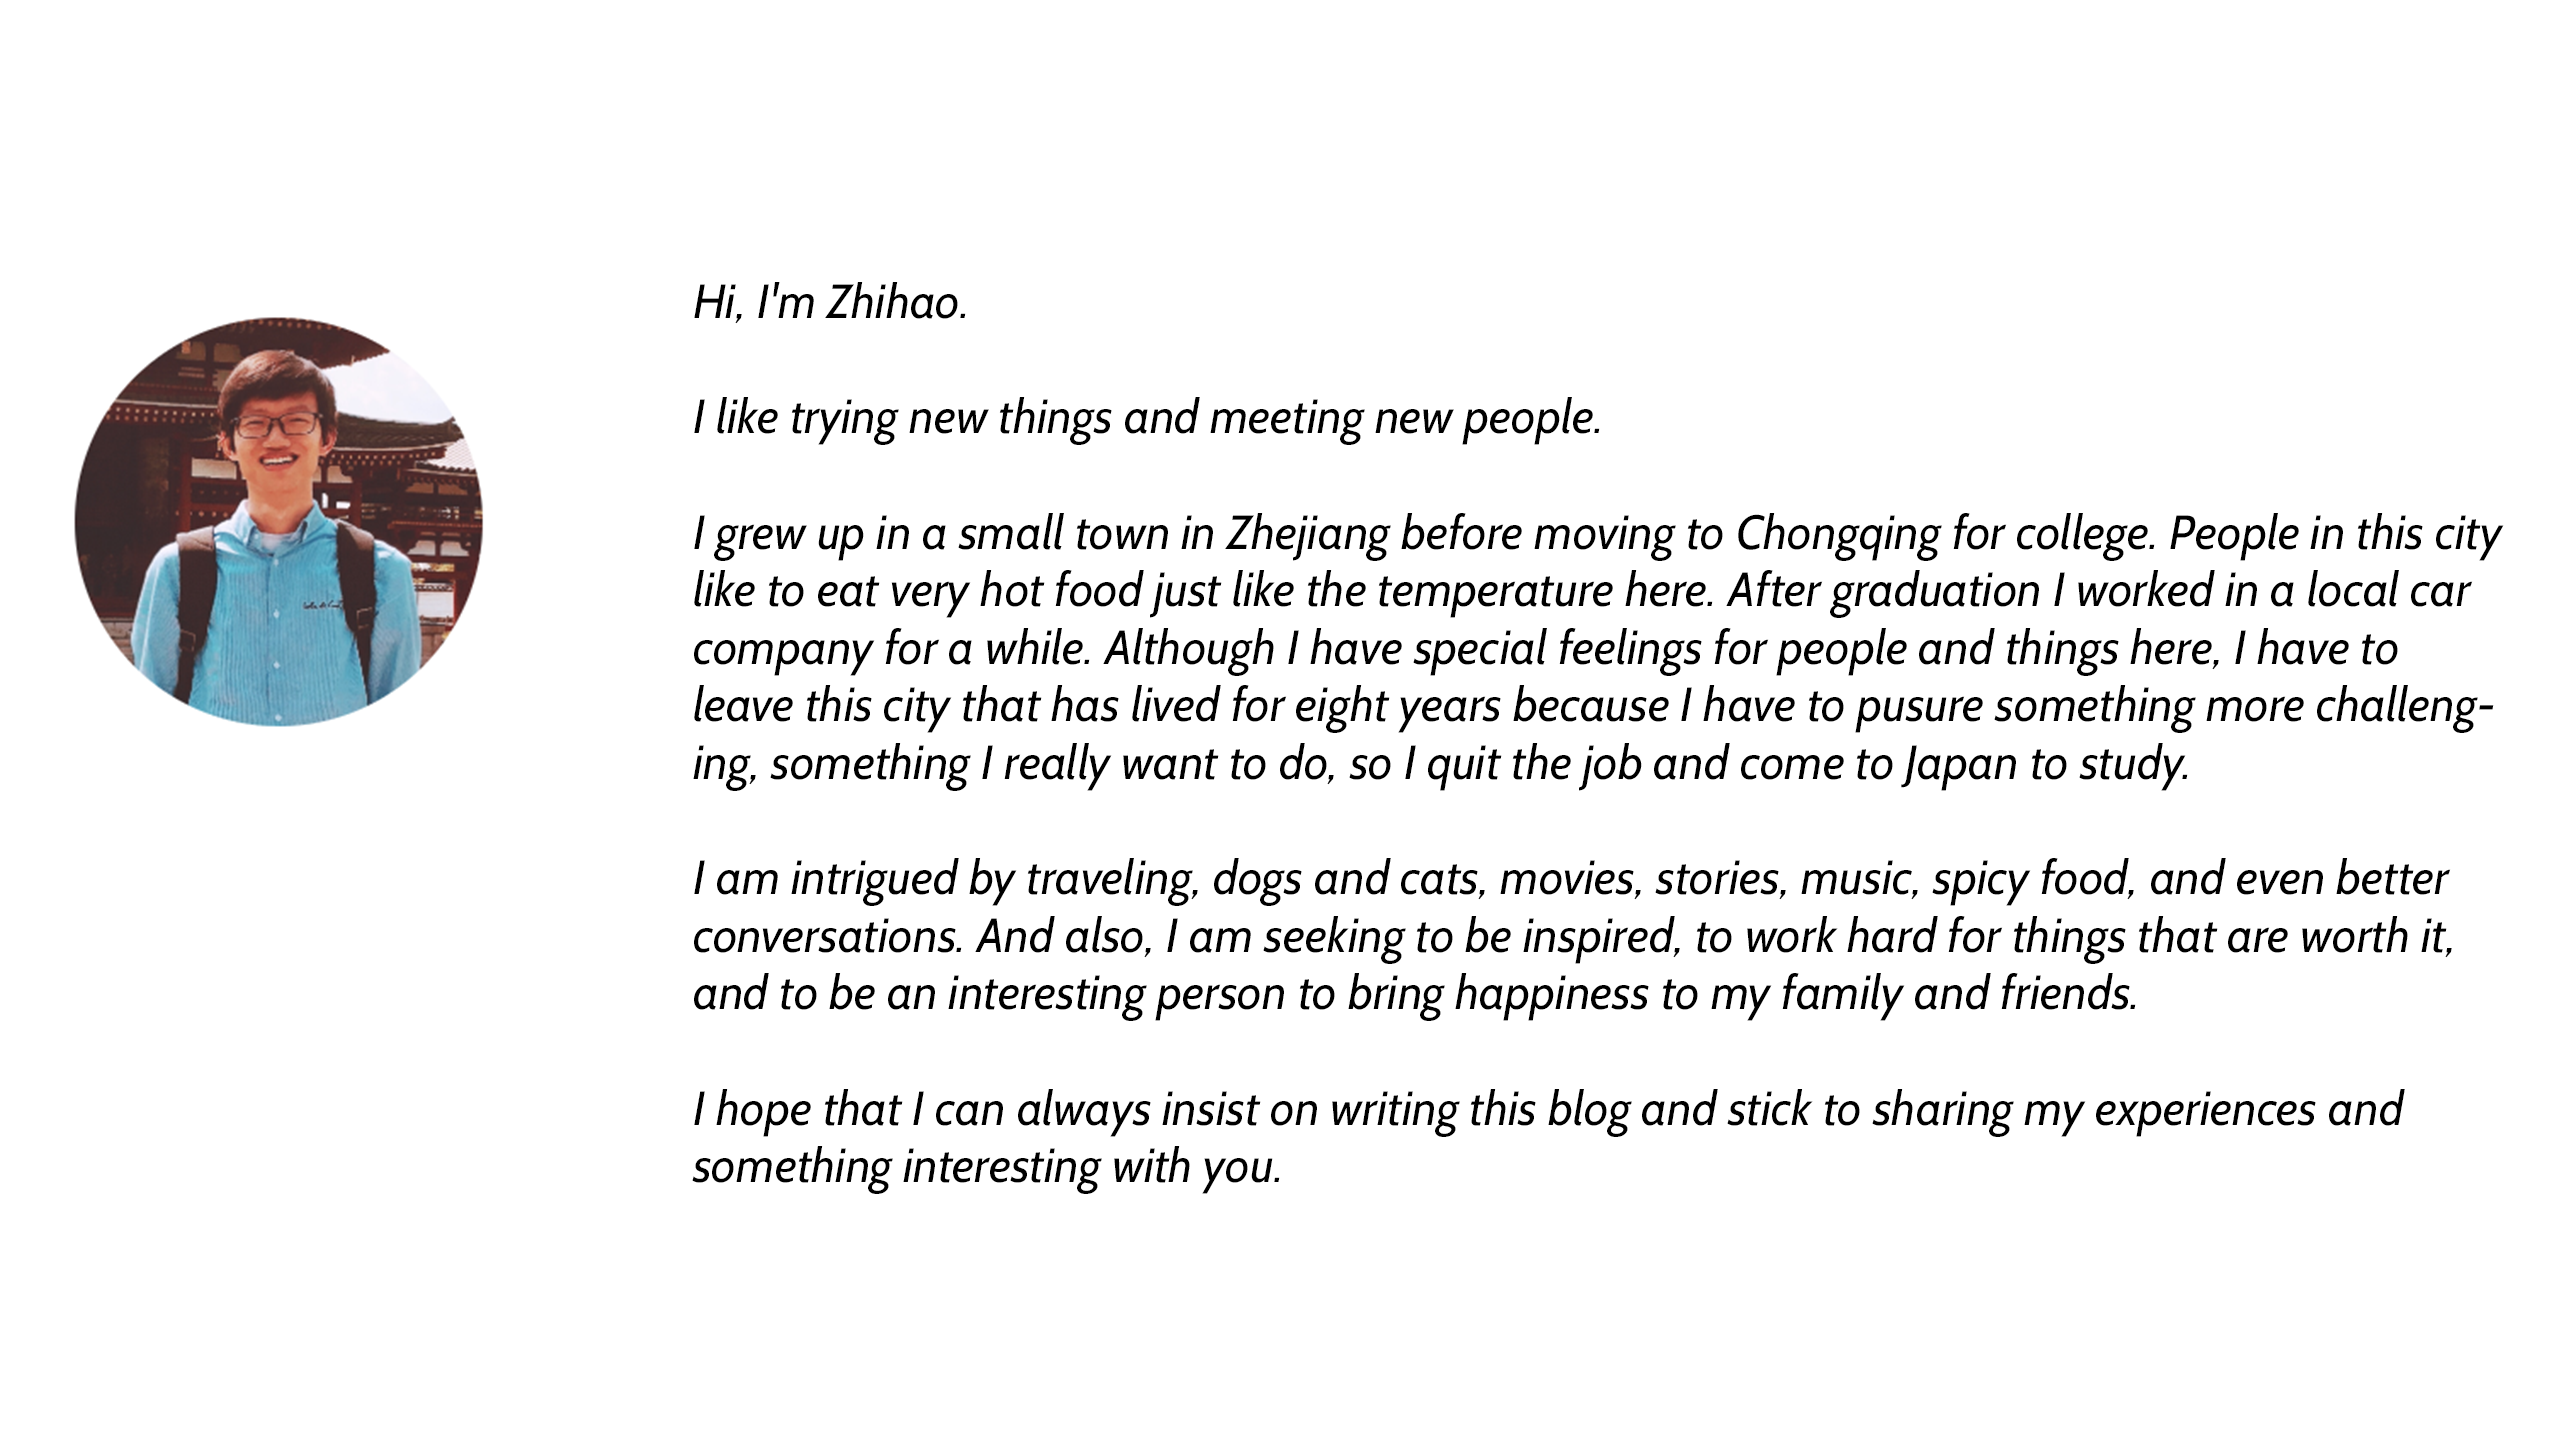
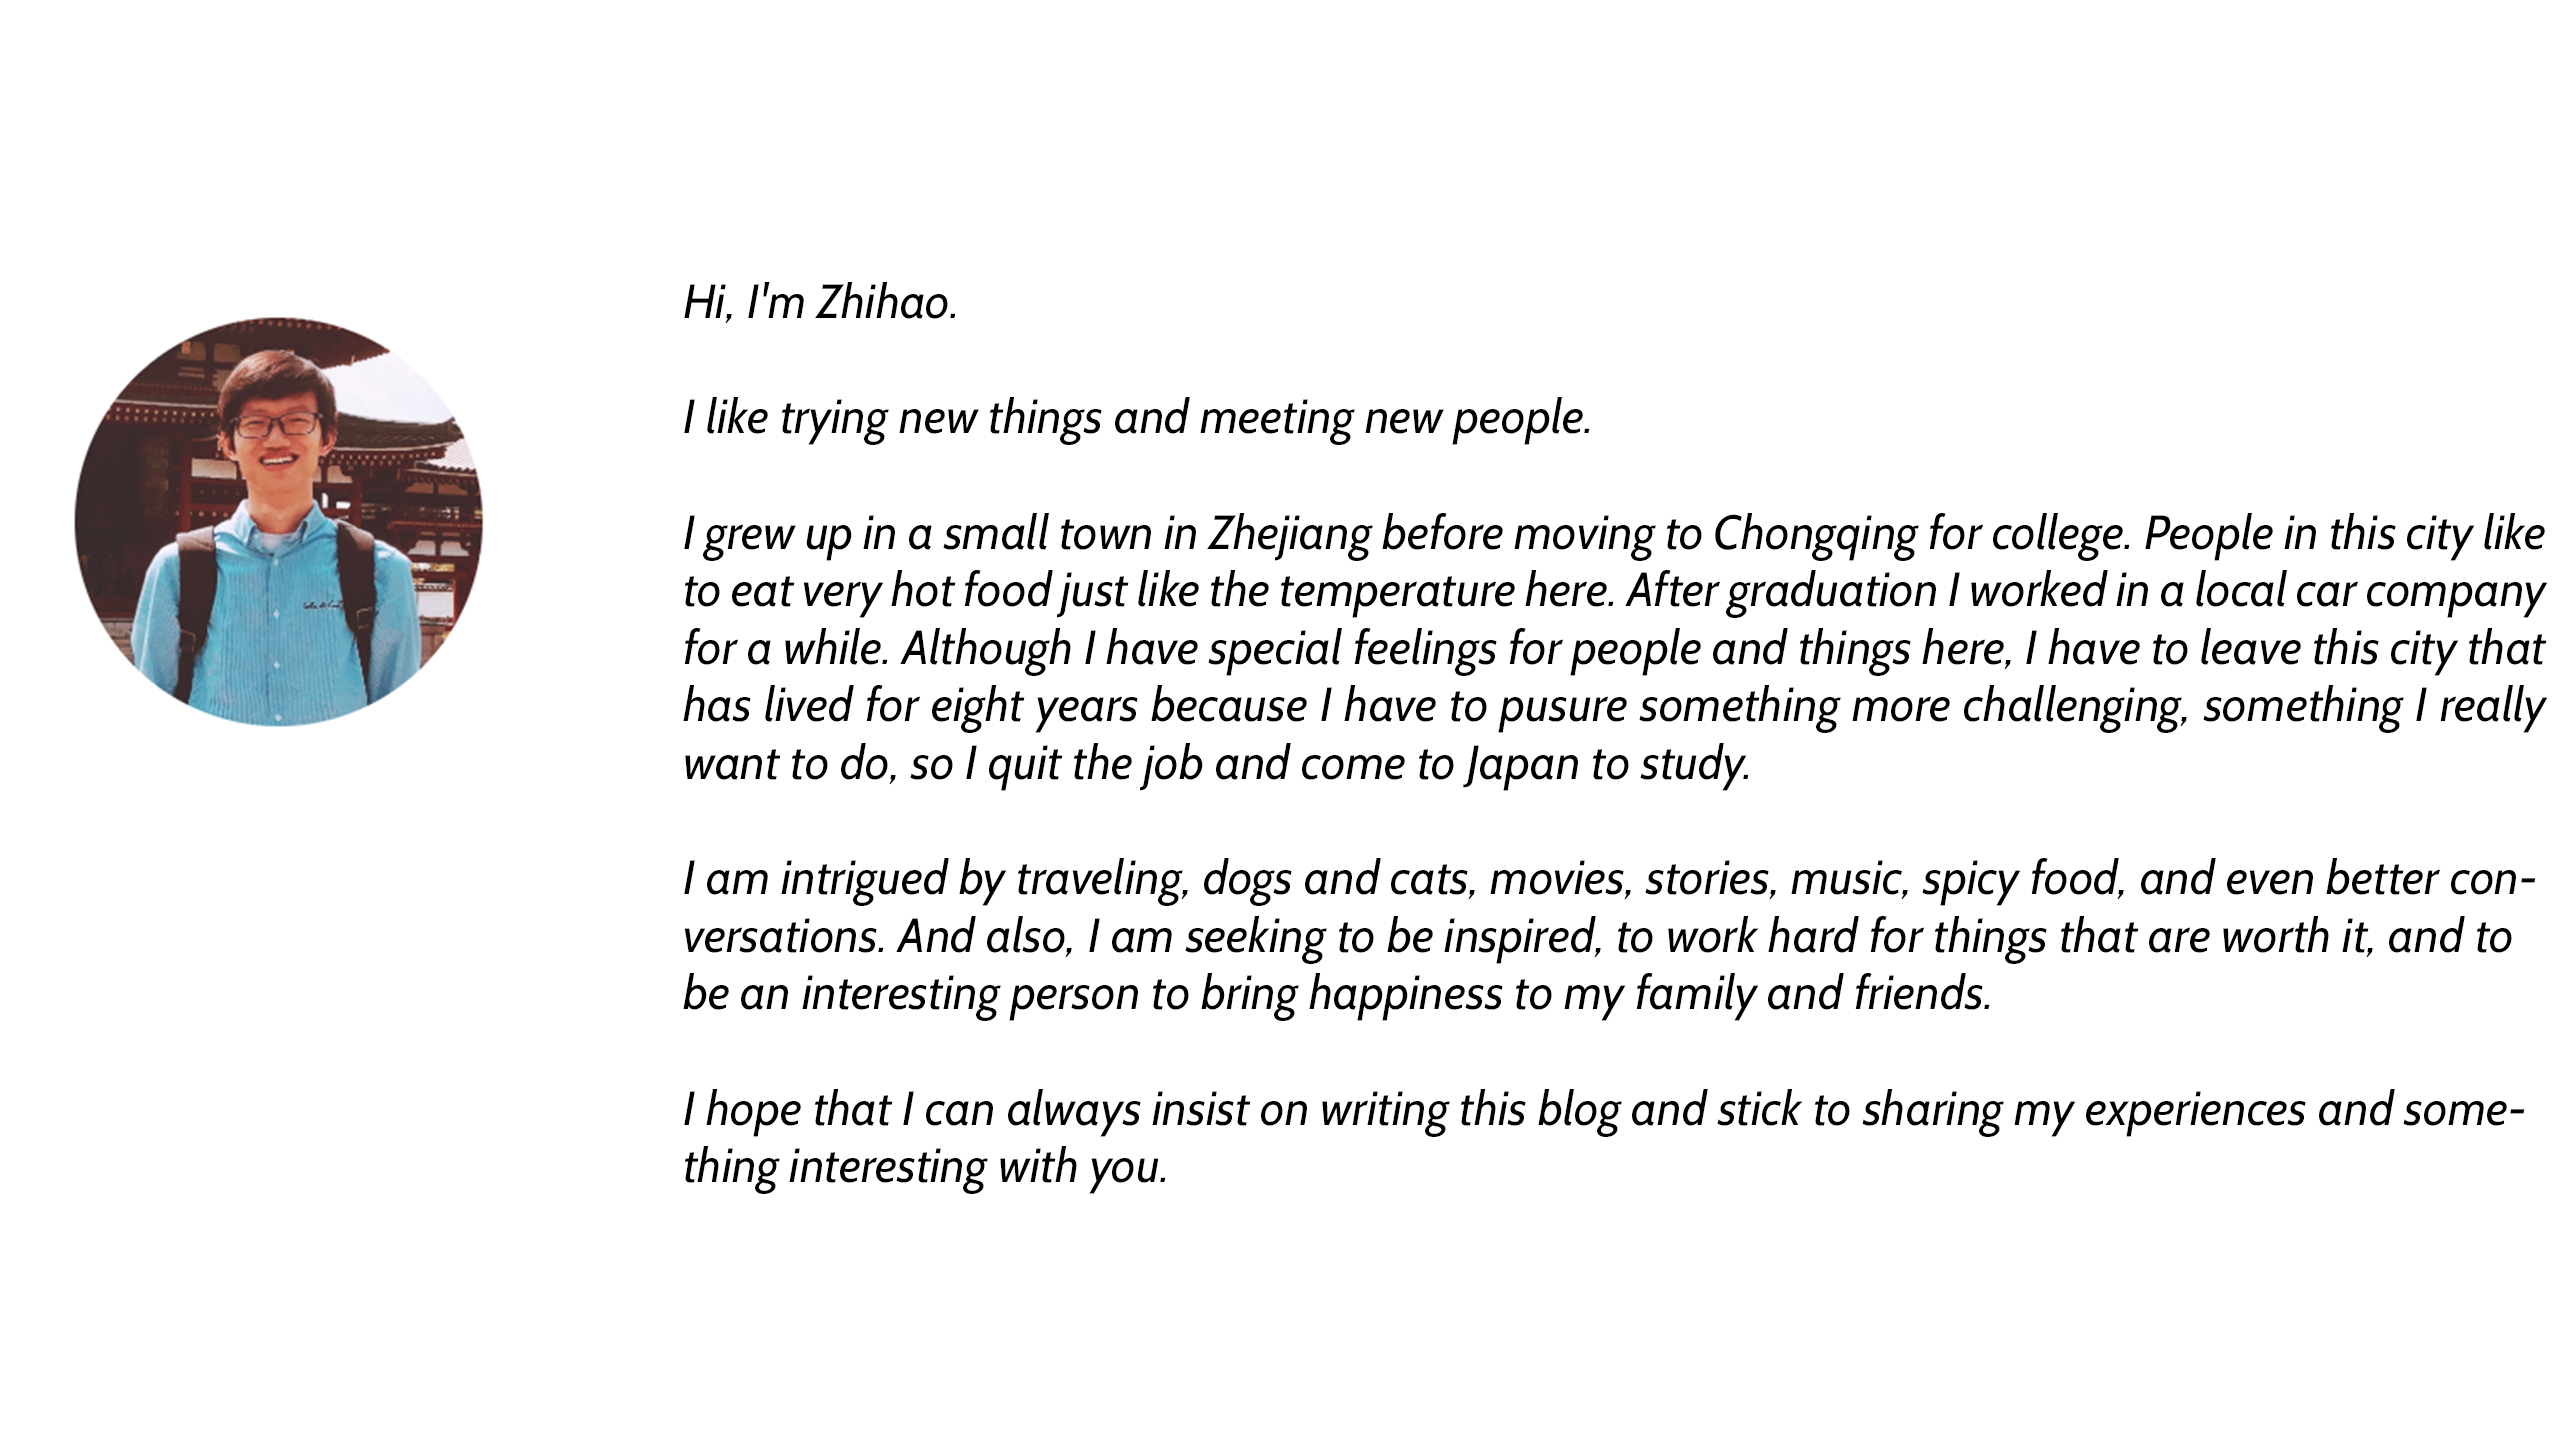
refresh

diff --git a/index.html b/index.html
@@ -75,22 +75,9 @@
 
 	  <!-- 20181209添加记录，这里我把文章的介绍搞成了一张about.png的图片然后直接引用，这样会很方便 -->
 	  <!-- <img src="assets/img/about.png" style="width:1030px;padding-left:15px;padding-right:15px;padding-top:10px;"> -->
-			<img src="assets/img/about.png" style="width:1030px;padding-left:15px;padding-right:15px;padding-top:10px;">
-            <img src="assets/img/myphoto.png" width="180px"; height="182.8px"; style="position:absolute; left:70px; top:700px; ">
-
-
-			<p align="left" style="padding:0px 200px 0px 280px; "> <font face="cabin" style="font-style: italic;"> <strong> Hi, I'm Zhihao. </strong></font> </p>
-			<p align="left" style="padding:0px 200px 0px 280px; "> <font face="cabin" style="font-style: italic;"> <strong> I like trying new things and meeting new people.  </strong></font> </p>
-			<p align="left" style="padding:0px 200px 0px 280px; "> <font face="cabin" style="font-style: italic;"> <strong> I grew up in a small town in Zhejiang before moving to Chongqing for college. People in this city like to eat very hot food just like the temperature here. After graduation I worked in a local car company for a while. Although I have special feelings for people and things here, I have to leave this city that has lived for eight years because I have to pusure something more challenging, something I really want to do, so I quit the job and come to Japan to study. </strong></font> </p>
-			<p align="left" style="padding:0px 200px 0px 280px; "> <font face="cabin" style="font-style: italic;"> <strong> I am intrigued by traveling, dogs and cats, movies, stories, music, spicy food, and even better conversations. And also, I am seeking to be inspired, to work hard for things that are worth it, and to be an interesting person to bring happiness to my family and friends. </strong></font> </p>
-			<p align="left" style="padding:0px 200px 0px 280px; "> <font face="cabin" style="font-style: italic;"> <strong> I hope that I can always insist on writing this blog and stick to sharing my experiences and something interesting with you. </strong></font> </p>
+			<img src="assets/img/about.png" style="width:1030px;padding-left:118px;padding-top:20px;">
 			
 			
-
-
-	
-
-	
       
       
     </div>
